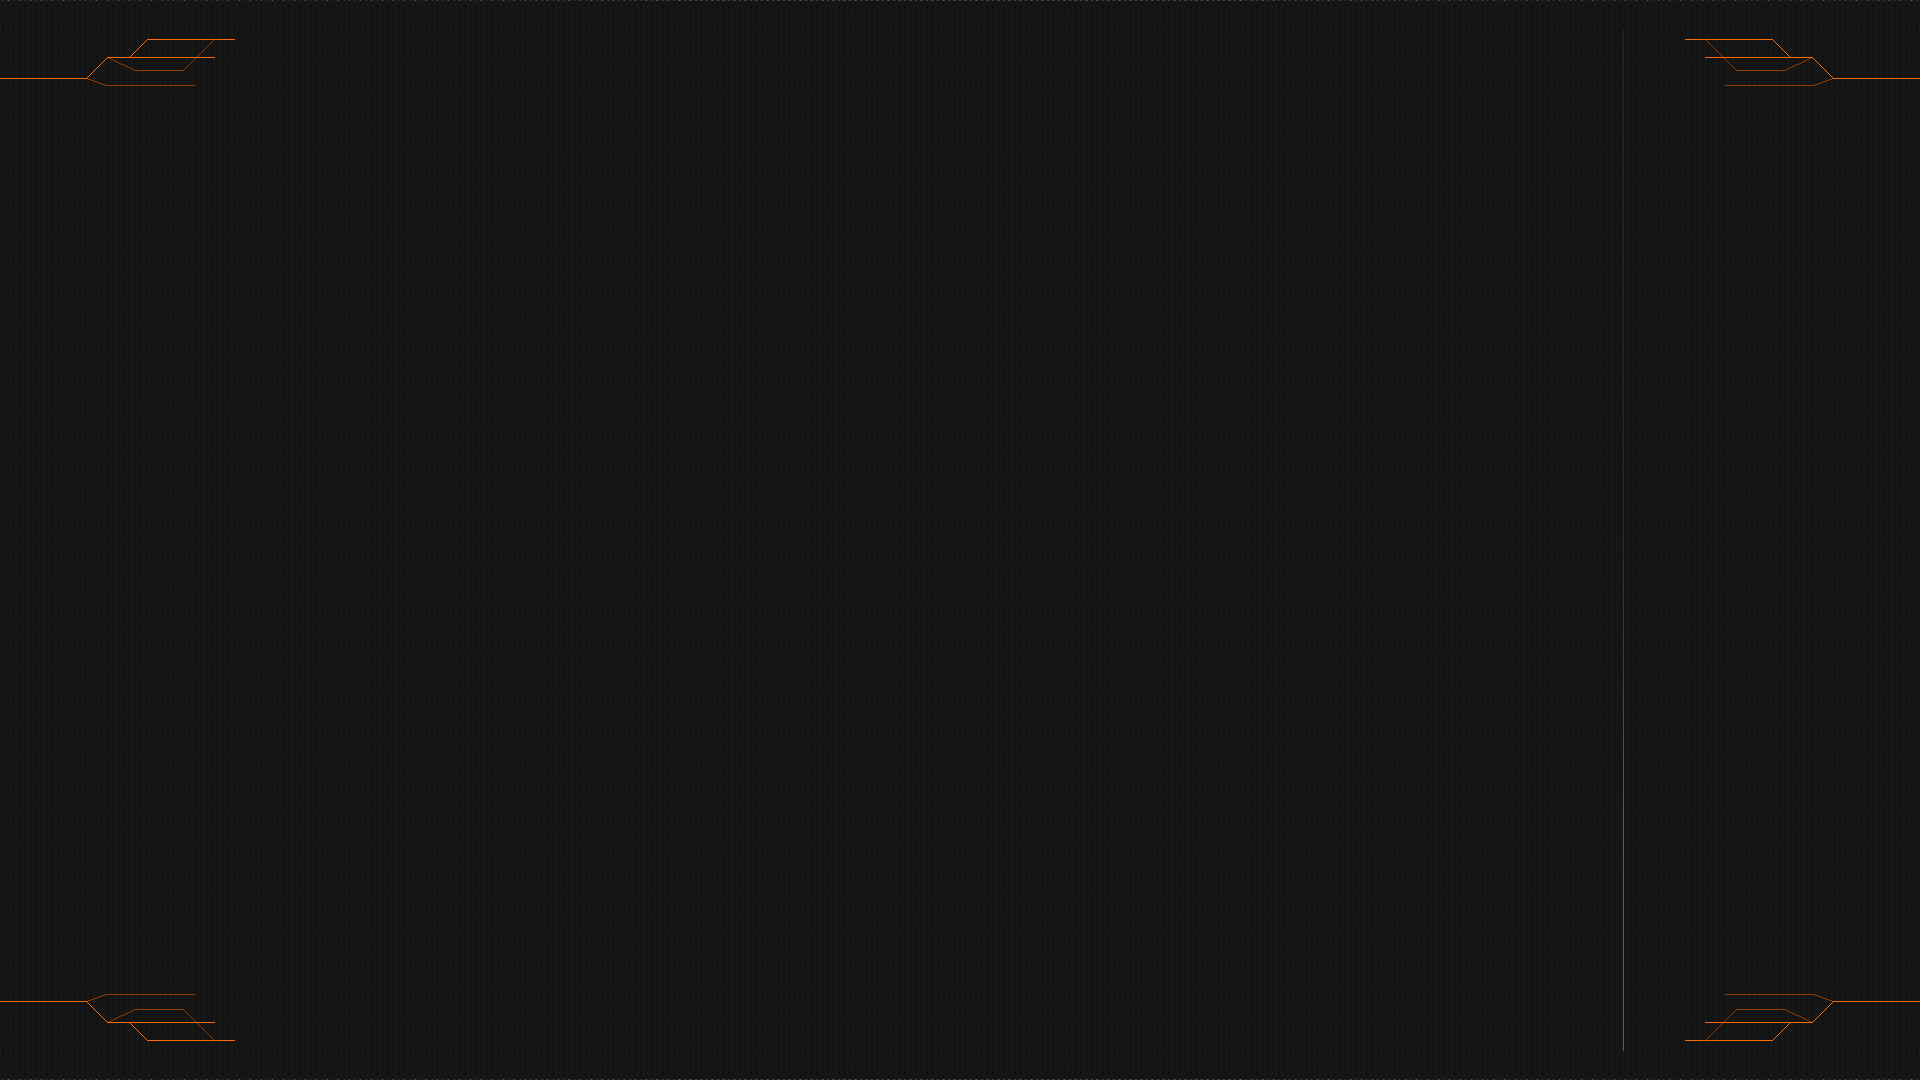
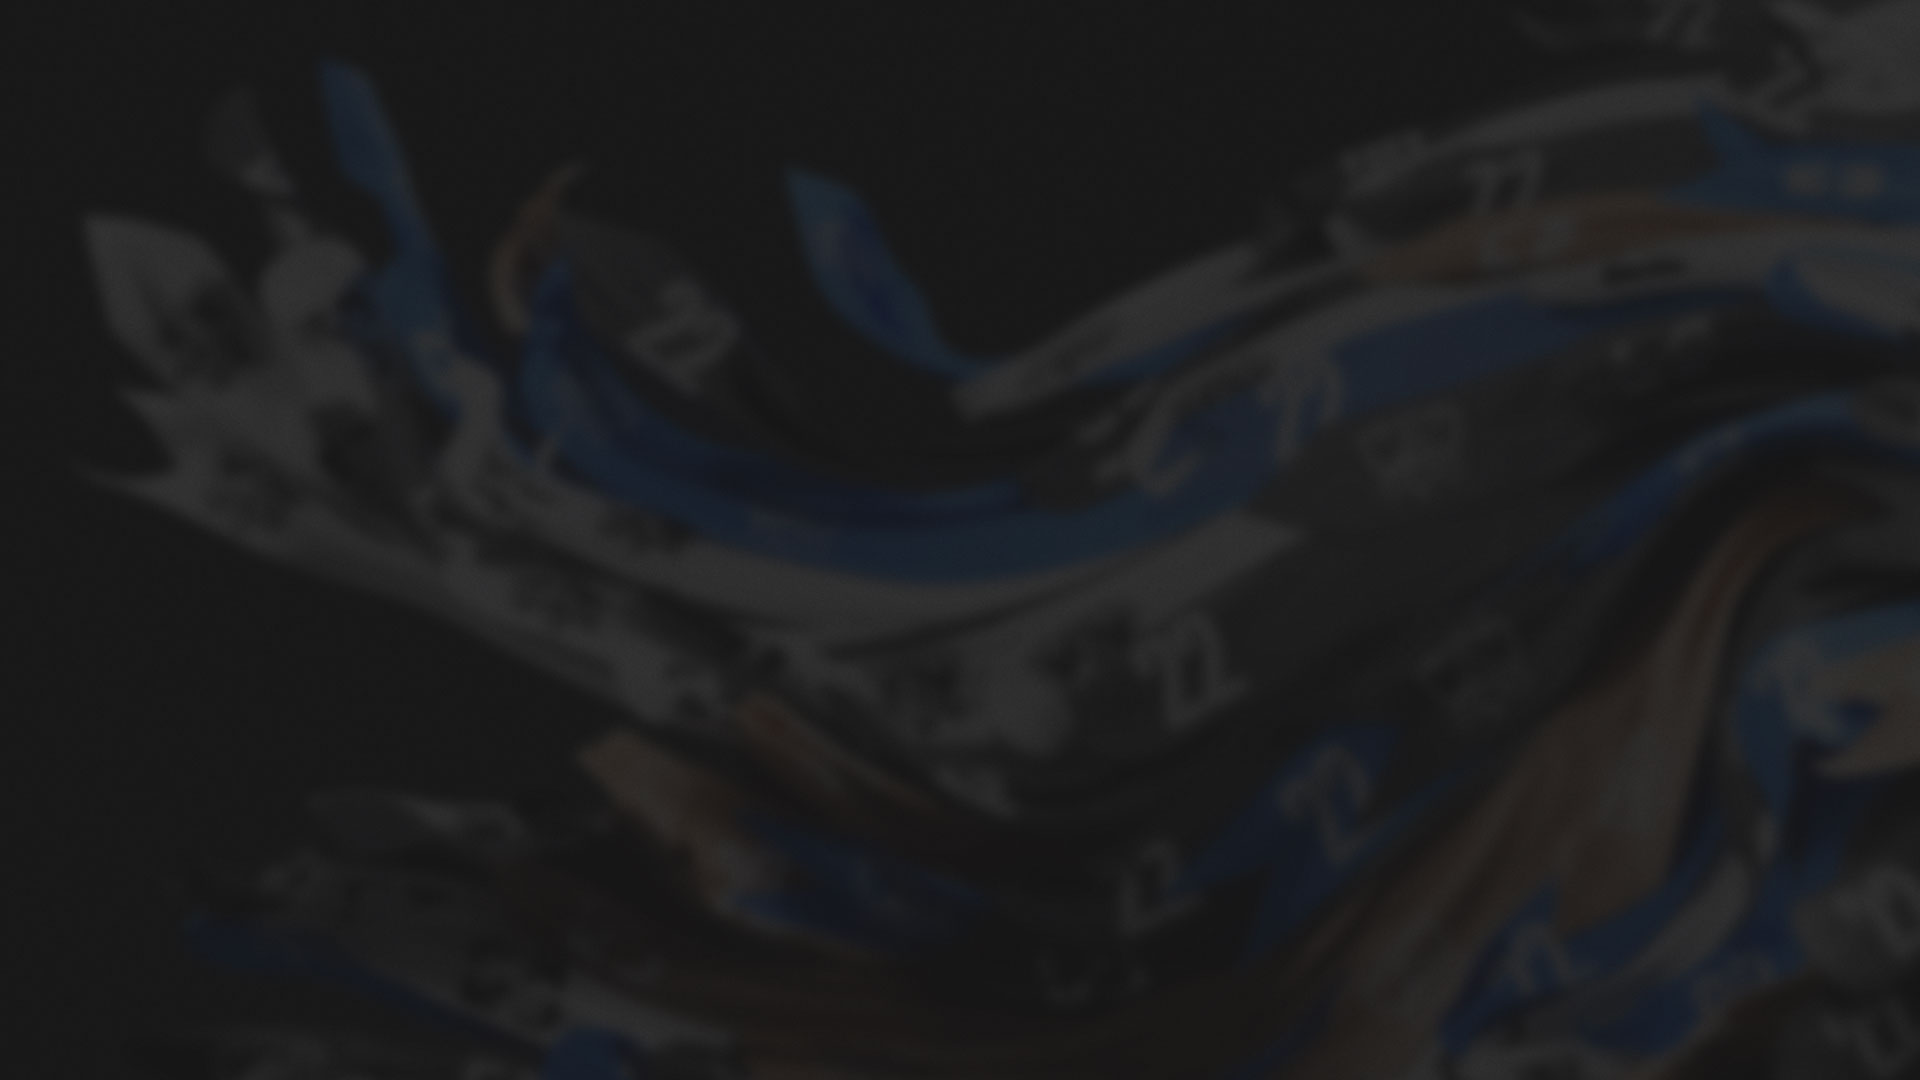
Add files via upload

diff --git a/src/components/NewHome/index.js b/src/components/NewHome/index.js
@@ -29,19 +29,34 @@ const callPageChanger = () => {
 const callSlideChanger = () => {
     switch(currentSlide){
         case 'slideOne':
+            document.querySelector('.dotOneSlide').classList.add('currentPageHome')
+            document.querySelector('.dotTwoSlide').classList.remove('currentPageHome')
+            document.querySelector('.dotThreeSlide').classList.remove('currentPageHome')
             document.querySelector('.divSliderPageOne').style.width = '100%'
             document.querySelector('.divSliderPageTwo').style.width = '0%'
             document.querySelector('.divSliderPageThree').style.width = '0%'
+            document.querySelector('.sliderRightTitle').textContent = 'O perfil do seu jeito!'
+            document.querySelector('.sliderRightFirstText').textContent = `    Visual é tudo, e aqui você poderá fazer o perfil com a sua cara, podendo personalizar todos os aspectos para deixar a experiência de cada página diferente`
+            document.querySelector('.sliderRightSecondText').textContent = `   O potêncial de todos os jogadores pode ser liberado atravez de uma pequena mudança de cor, talvez o seu perfil chame a atenção de um Chefe de Equipe e te convide para a próxima temporada de BattleMode Racing?`
+
             break
         case 'slideTwo':
+            document.querySelector('.dotOneSlide').classList.remove('currentPageHome')
+            document.querySelector('.dotTwoSlide').classList.add('currentPageHome')
+            document.querySelector('.dotThreeSlide').classList.remove('currentPageHome')
             document.querySelector('.divSliderPageOne').style.width = '0%'
             document.querySelector('.divSliderPageTwo').style.width = '100%'
             document.querySelector('.divSliderPageThree').style.width = '0%'
+            document.querySelector('.sliderRightTitle').textContent = 'A equipe dos sonhos!'
             break
         case 'slideThree':
+            document.querySelector('.dotOneSlide').classList.remove('currentPageHome')
+            document.querySelector('.dotTwoSlide').classList.remove('currentPageHome')
+            document.querySelector('.dotThreeSlide').classList.add('currentPageHome')
             document.querySelector('.divSliderPageOne').style.width = '0%'
             document.querySelector('.divSliderPageTwo').style.width = '0%'
             document.querySelector('.divSliderPageThree').style.width = '100%'
+            document.querySelector('.sliderRightTitle').textContent = 'Modelo!'
             break
 
     }
@@ -117,25 +132,38 @@ export default function NewHome () {
 
         switch (currentSlide) {
             case 'slideOne':
+                document.querySelector('.dotOneSlide').classList.add('currentPageHome')
+                document.querySelector('.dotTwoSlide').classList.remove('currentPageHome')
+                document.querySelector('.dotThreeSlide').classList.remove('currentPageHome')
                 document.querySelector('.divSliderPageOne').style.width = '100%'
                 document.querySelector('.divSliderPageTwo').style.width = '0%'
                 document.querySelector('.divSliderPageThree').style.width = '0%'
+                document.querySelector('.sliderRightTitle').textContent = 'O perfil do seu jeito!'
                 break
             case 'slideTwo':
+                document.querySelector('.dotOneSlide').classList.remove('currentPageHome')
+                document.querySelector('.dotTwoSlide').classList.add('currentPageHome')
+                document.querySelector('.dotThreeSlide').classList.remove('currentPageHome')
                 document.querySelector('.divSliderPageOne').style.width = '0%'
                 document.querySelector('.divSliderPageTwo').style.width = '100%'
                 document.querySelector('.divSliderPageThree').style.width = '0%'
+                document.querySelector('.sliderRightTitle').textContent = 'A equipe dos sonhos!'
                 break
             case 'slideThree':
+                document.querySelector('.dotOneSlide').classList.remove('currentPageHome')
+                document.querySelector('.dotTwoSlide').classList.remove('currentPageHome')
+                document.querySelector('.dotThreeSlide').classList.add('currentPageHome')
                 document.querySelector('.divSliderPageOne').style.width = '0%'
                 document.querySelector('.divSliderPageTwo').style.width = '0%'
                 document.querySelector('.divSliderPageThree').style.width = '100%'
+                document.querySelector('.sliderRightTitle').textContent = 'Modelo!'
                 break
         }
     })
 
     return(
         <div className="containerNewHome">
+            <div className="containerImageBackground"/>
             <Navbar/>
             <div className="paddingLeft containerNewHome">
                 <div>
@@ -254,6 +282,13 @@ export default function NewHome () {
                                         </div>
                                     </div>
                                     <div className='customizationSliderTextSlide'>
+                                        <div>
+                                            <h2 className='sliderRightTitle'>Titulo</h2>
+                                        </div>
+                                        <div>
+                                            <p className='sliderRightFirstText'>Visual é tudo, e aqui você poderá fazer o perfil com a sua cara, podendo personalizar todos os aspectos para deixar a experiência de cada página diferente</p>
+                                            <p className='sliderRightSecondText'>O potêncial de todos os jogadores pode ser liberado atravez de uma pequena mudança de cor, talvez o seu perfil chame a atenção de um Chefe de Equipe e te convide para a próxima temporada de BattleMode Racing? </p>
+                                        </div>
                                         {/* <div className='tourneamentHighlitedDecoration'></div> */}
                                         {/* <div className='tourneamentHighlitedImgOne'></div> */}
 

diff --git a/src/components/NewHome/index.css b/src/components/NewHome/index.css
@@ -4,8 +4,15 @@
     height: 100vh;
     color: white;
     overflow: hidden;
-    background: url('./background.png');
+}
+
+.containerImageBackground{
+    background: url('./IgnorantDenseBighorn-size_restricted.gif');
     background-size: 100% 100%;
+    filter: blur(7px);
+    width: 100%;
+    height: 100%;
+    position: absolute;
 
 }
 
@@ -66,6 +73,7 @@
 }
 
 .labelPageOneHome{
+    z-index: 2;
     margin-left: 5%;
     width: 70%;
     height: 100px;
@@ -205,6 +213,7 @@
 }
 
 .labelPageTwoHome{
+    z-index: 2;
     margin-left: 5%;
     width: 70%;
     height: 100px;
@@ -316,15 +325,24 @@
     margin-top: 4%;
     display: flex;
     flex-direction: column;
-    justify-content: flex-end;
+    justify-content: start;
+    align-items: center;
     box-shadow: 10px 10px 10px 0px #030303;
     background-size: 100% 100%;
     border: 1px solid #fc6b03;
     border-left: none;
     border-radius: 2px;
+    padding-left: 2%;
+    padding-right: 2%;
+}
+
+.customizationSliderTextSlide h5{
+    font-size: 16px;
+    font-weight: 0;
 }
 
 .labelPageThreeHome{
+    z-index: 2;
     margin-left: 5%;
     width: 70%;
     height: 100px;
@@ -347,7 +365,14 @@
     border-radius: 40px;
     width: 16%;
     height: 10px;
-    background-color: red;
+    background-color: #303030;;
+}
+
+.sliderDots div:hover{
+    border-radius: 40px;
+    width: 16%;
+    height: 10px;
+    background-color: #868686;;
 }
 
 .sliderArrows{
@@ -381,14 +406,14 @@
 
 .divSliderPageTwo{
     background-color: darkkhaki;
-    background-image: url('./firstSlide.png');
+
     width: 100%;
 }
 
 .divSliderPageThree{
     width: 0%;
     background-color: sienna;
-    background-image: url('./firstSlide.png');
+
 }
 
 .dotsFromSlide:hover{
